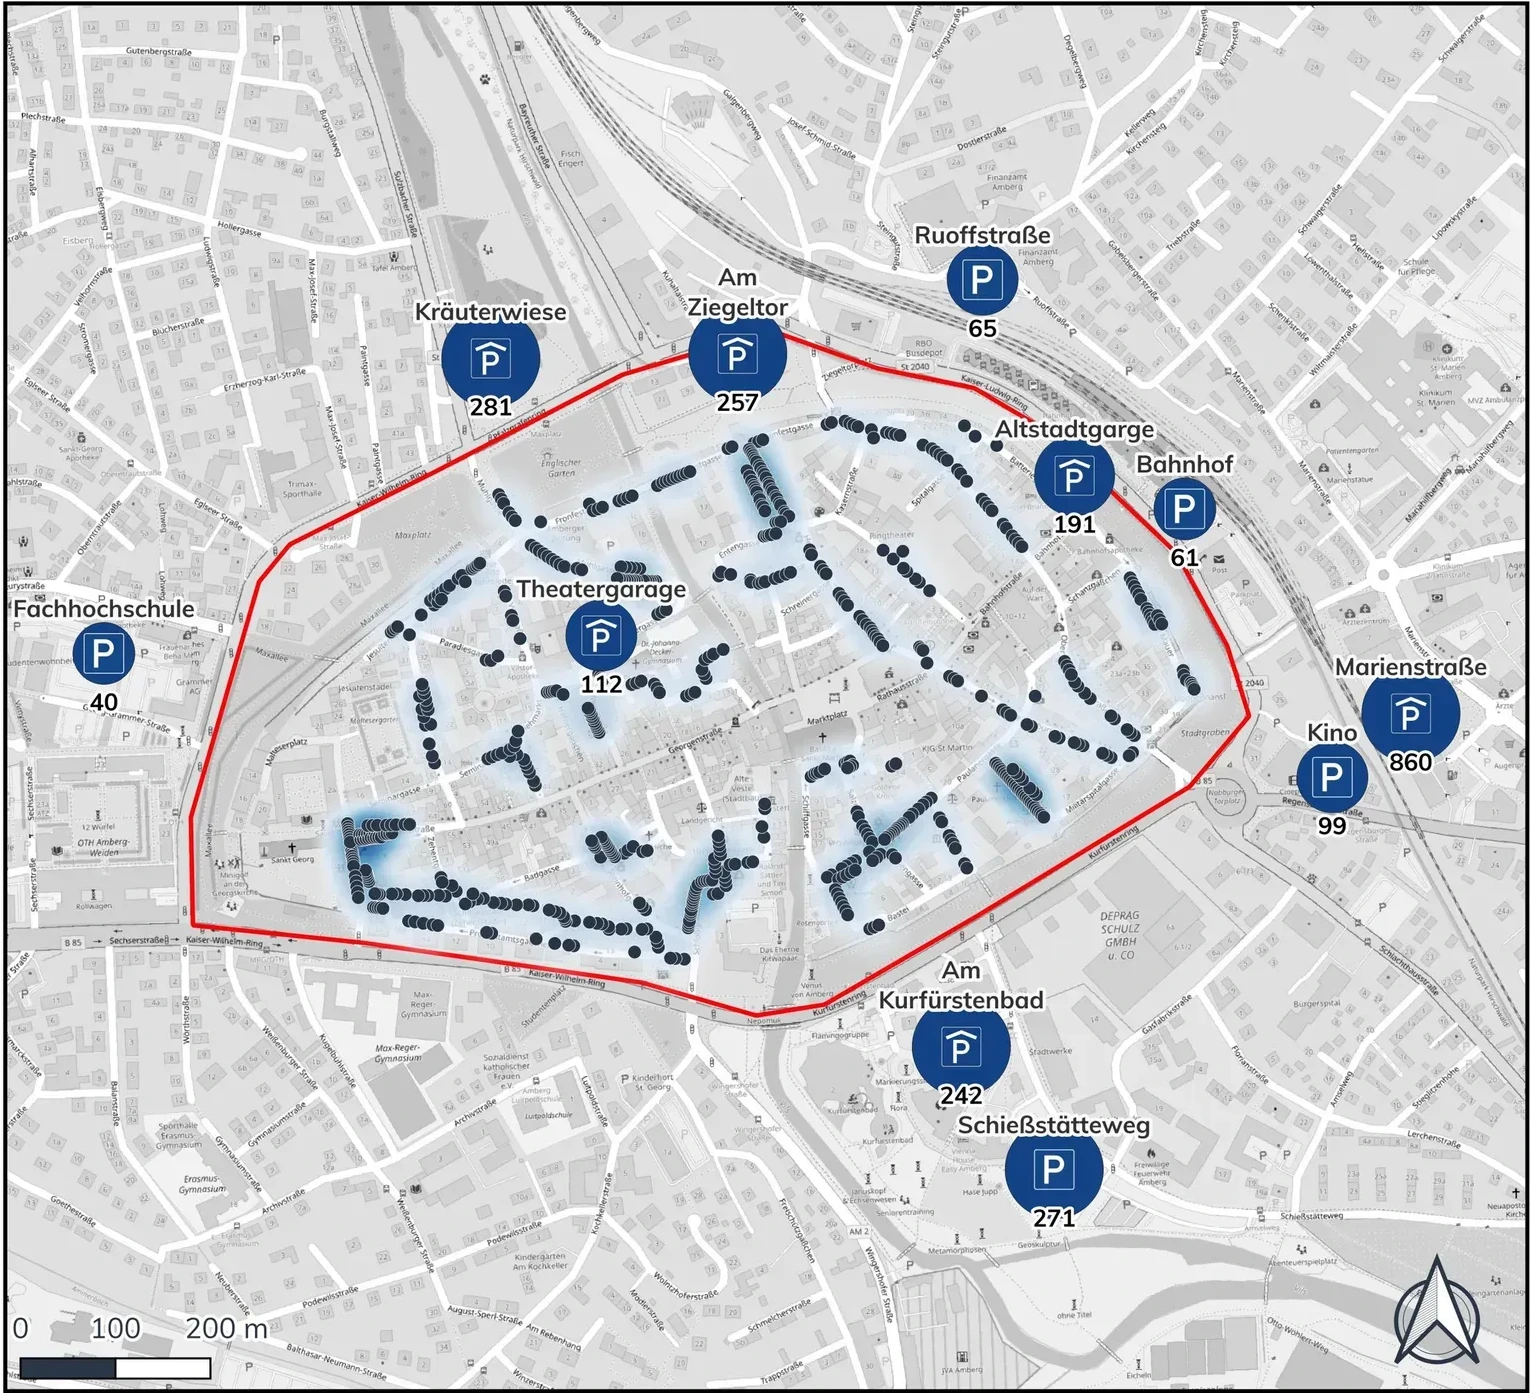
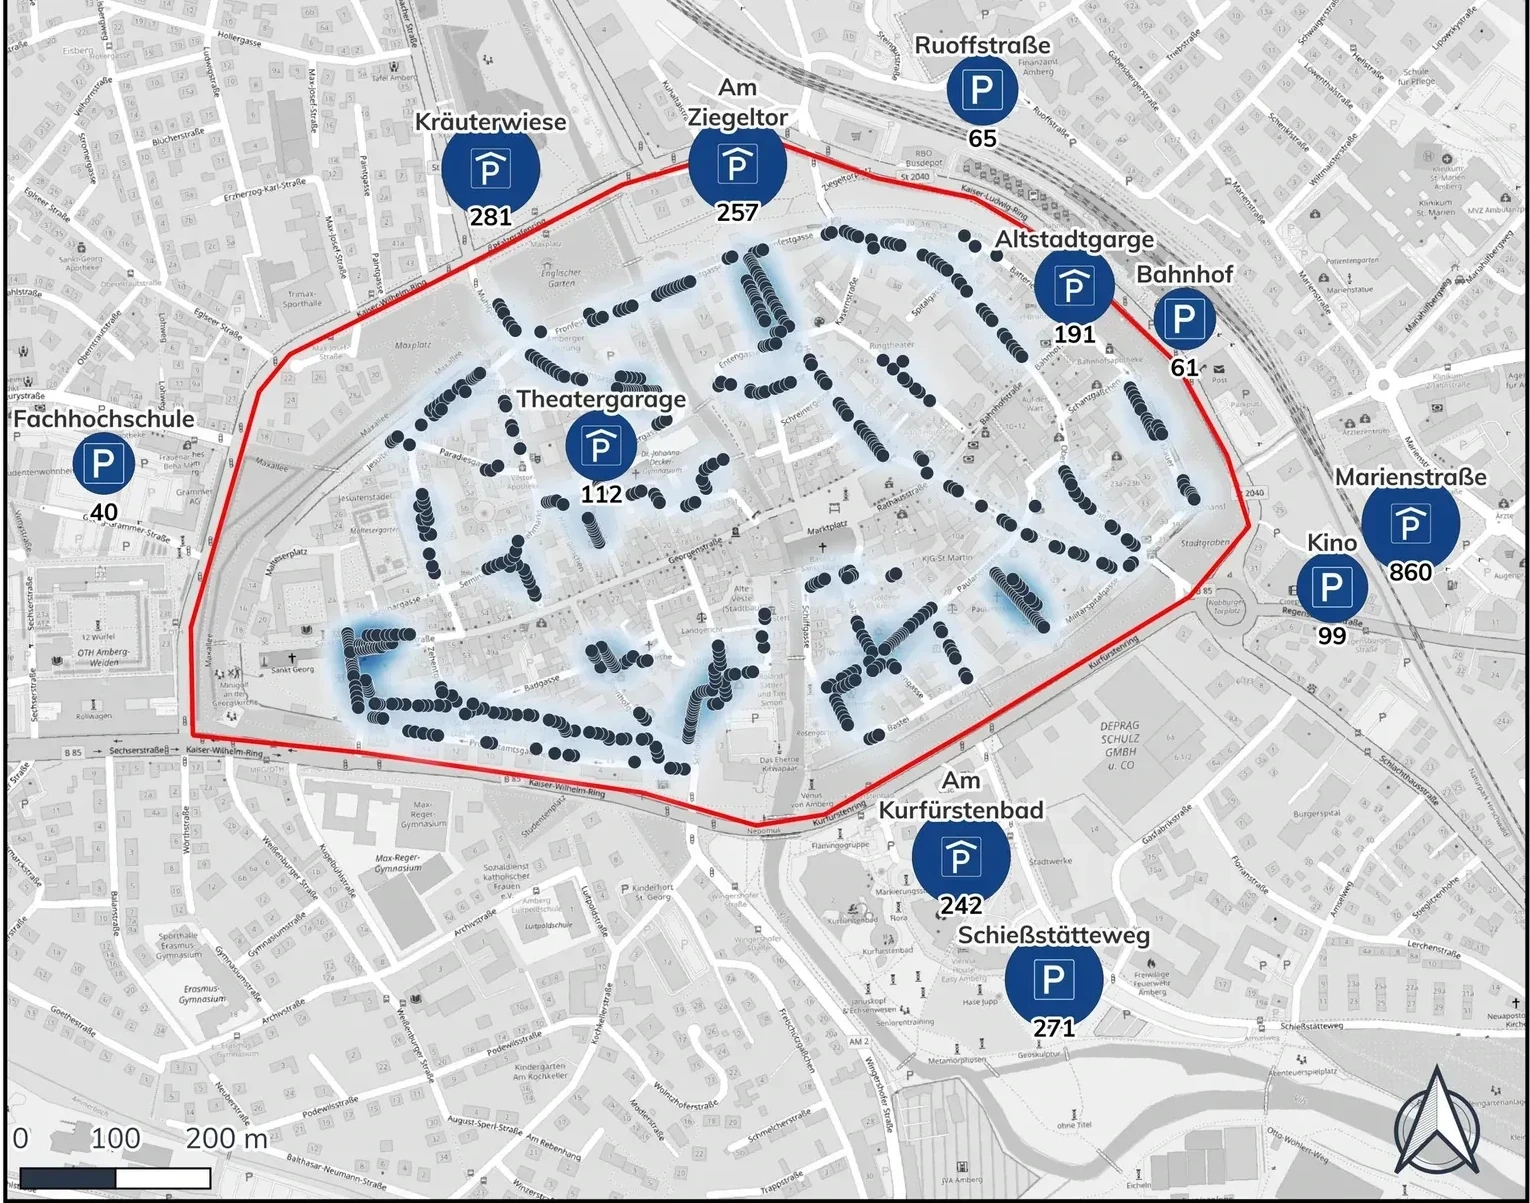
Crop Amberg parking hero to a wider rectangle
Trims the bare street-grid margin above the Ruoffstraße parking icon,
taking the hero from a near-square 1.10:1 to 1.27:1 with every parking
location, the scale bar and the north arrow still intact. The bottom
edge couldn't be trimmed further without cutting the scale bar/north
arrow, which sit right at the image boundary.

diff --git a/de/projekte/amberg-parking-cycling-accessibility.html b/de/projekte/amberg-parking-cycling-accessibility.html
@@ -36,7 +36,7 @@
 <div class="container" style="padding-top:36px; padding-bottom:60px;">
 <a class="back-link" href="../index.html">← Zurück zu Projekten</a>
 <div class="proj-detail__hero" id="project-visual">
-<a aria-label="Bild vergrößern: Innerstädtische Parkflächen und Kapazitäten in Amberg" class="image-preview" data-image-viewer="" href="../../assets/images/amberg_parking_01.webp"><img alt="Innerstädtische Parkflächen und Kapazitäten in Amberg" height="1393" loading="eager" src="../../assets/images/amberg_parking_01.webp" width="1530"/><span aria-hidden="true" class="image-preview__hint"><svg aria-hidden="true" class="line-icon" fill="none" stroke="currentColor" stroke-width="1.6" viewbox="0 0 24 24"><circle cx="10" cy="10" r="6"></circle><path d="m15 15 6 6M10 7v6M7 10h6"></path></svg></span></a>
+<a aria-label="Bild vergrößern: Innerstädtische Parkflächen und Kapazitäten in Amberg" class="image-preview" data-image-viewer="" href="../../assets/images/amberg_parking_01.webp"><img alt="Innerstädtische Parkflächen und Kapazitäten in Amberg" height="1203" loading="eager" src="../../assets/images/amberg_parking_01.webp" width="1530"/><span aria-hidden="true" class="image-preview__hint"><svg aria-hidden="true" class="line-icon" fill="none" stroke="currentColor" stroke-width="1.6" viewbox="0 0 24 24"><circle cx="10" cy="10" r="6"></circle><path d="m15 15 6 6M10 7v6M7 10h6"></path></svg></span></a>
 <div class="proj-detail__hero-overlay"></div>
 <div class="proj-detail__hero-meta">
 <h1>Parkraum- &amp; Radwegerreichbarkeit Stadt Amberg</h1>

diff --git a/projects/amberg-parking-cycling-accessibility.html b/projects/amberg-parking-cycling-accessibility.html
@@ -34,7 +34,7 @@
 <div class="container" style="padding-top:36px; padding-bottom:60px;">
 <a class="back-link" href="index.html">← Back to Projects</a>
 <div class="proj-detail__hero" id="project-visual">
-<a aria-label="Enlarge image: Inner-city parking facilities and capacities in Amberg" class="image-preview" data-image-viewer="" href="../assets/images/amberg_parking_01.webp"><img alt="Inner-city parking facilities and capacities in Amberg" height="1393" loading="eager" src="../assets/images/amberg_parking_01.webp" width="1530"/><span aria-hidden="true" class="image-preview__hint"><svg aria-hidden="true" class="line-icon" fill="none" stroke="currentColor" stroke-width="1.6" viewbox="0 0 24 24"><circle cx="10" cy="10" r="6"></circle><path d="m15 15 6 6M10 7v6M7 10h6"></path></svg></span></a>
+<a aria-label="Enlarge image: Inner-city parking facilities and capacities in Amberg" class="image-preview" data-image-viewer="" href="../assets/images/amberg_parking_01.webp"><img alt="Inner-city parking facilities and capacities in Amberg" height="1203" loading="eager" src="../assets/images/amberg_parking_01.webp" width="1530"/><span aria-hidden="true" class="image-preview__hint"><svg aria-hidden="true" class="line-icon" fill="none" stroke="currentColor" stroke-width="1.6" viewbox="0 0 24 24"><circle cx="10" cy="10" r="6"></circle><path d="m15 15 6 6M10 7v6M7 10h6"></path></svg></span></a>
 <div class="proj-detail__hero-overlay"></div>
 <div class="proj-detail__hero-meta">
 <h1>Parking &amp; Cycling Accessibility for the City of Amberg</h1>

diff --git a/de/projekte/index.html b/de/projekte/index.html
@@ -147,7 +147,7 @@
 </div>
 </article><article class="archive-item" data-category="professional" data-project-card="">
 <div class="proj-card">
-<a class="image-preview" href="amberg-parking-cycling-accessibility.html"><img alt="Innerstädtische Parkflächen und Kapazitäten in Amberg" class="proj-card__img" height="1393" loading="lazy" src="../../assets/images/amberg_parking_01.webp" width="1530"/></a>
+<a class="image-preview" href="amberg-parking-cycling-accessibility.html"><img alt="Innerstädtische Parkflächen und Kapazitäten in Amberg" class="proj-card__img" height="1203" loading="lazy" src="../../assets/images/amberg_parking_01.webp" width="1530"/></a>
 <a class="project-card-link" href="amberg-parking-cycling-accessibility.html"><div class="proj-card__body">
 <h3 class="proj-card__title">Parkraum- &amp; Radwegerreichbarkeit Amberg</h3>
 <p class="proj-card__desc">Erreichbarkeitsanalysen zu Fuß, mit dem Rad und mit dem Auto für den Parkraum in der Amberger Altstadt, sowie ein Erreichbarkeitsvergleich für einen geplanten neuen Radweg.</p>

diff --git a/projects/index.html b/projects/index.html
@@ -146,7 +146,7 @@
 </div>
 </article><article class="archive-item" data-category="professional" data-project-card="">
 <div class="proj-card">
-<a class="image-preview" href="amberg-parking-cycling-accessibility.html"><img alt="Inner-city parking facilities and capacities in Amberg" class="proj-card__img" height="1393" loading="lazy" src="../assets/images/amberg_parking_01.webp" width="1530"/></a>
+<a class="image-preview" href="amberg-parking-cycling-accessibility.html"><img alt="Inner-city parking facilities and capacities in Amberg" class="proj-card__img" height="1203" loading="lazy" src="../assets/images/amberg_parking_01.webp" width="1530"/></a>
 <a class="project-card-link" href="amberg-parking-cycling-accessibility.html"><div class="proj-card__body">
 <h3 class="proj-card__title">Parking &amp; Cycling Accessibility for Amberg</h3>
 <p class="proj-card__desc">Walking, cycling and car accessibility analyses for parking in Amberg's historic centre, plus an accessibility comparison for a planned new cycle path.</p>
